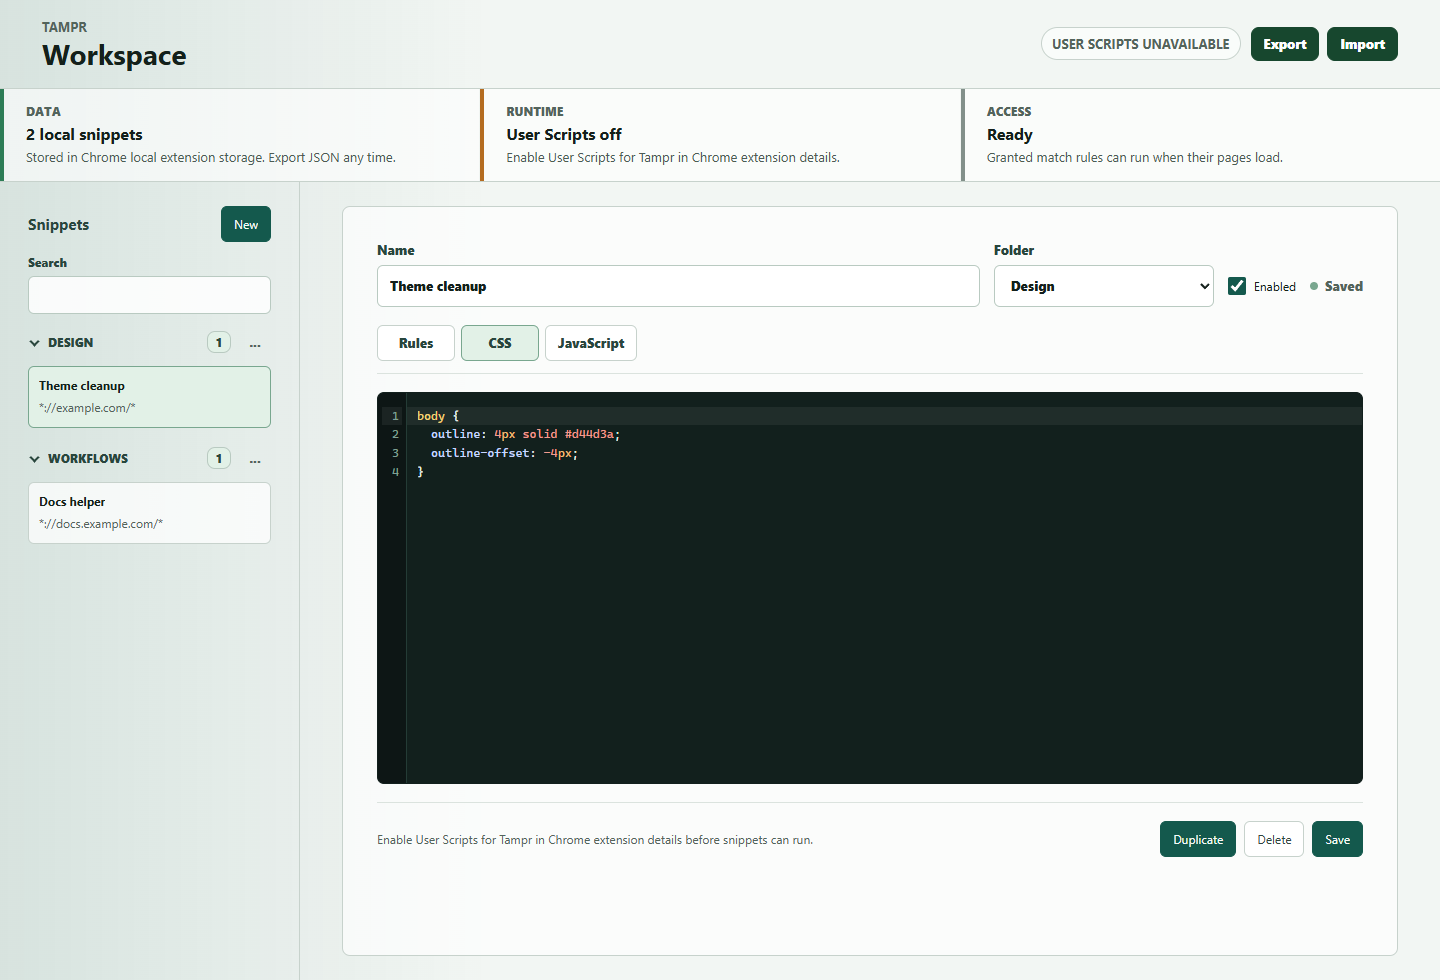
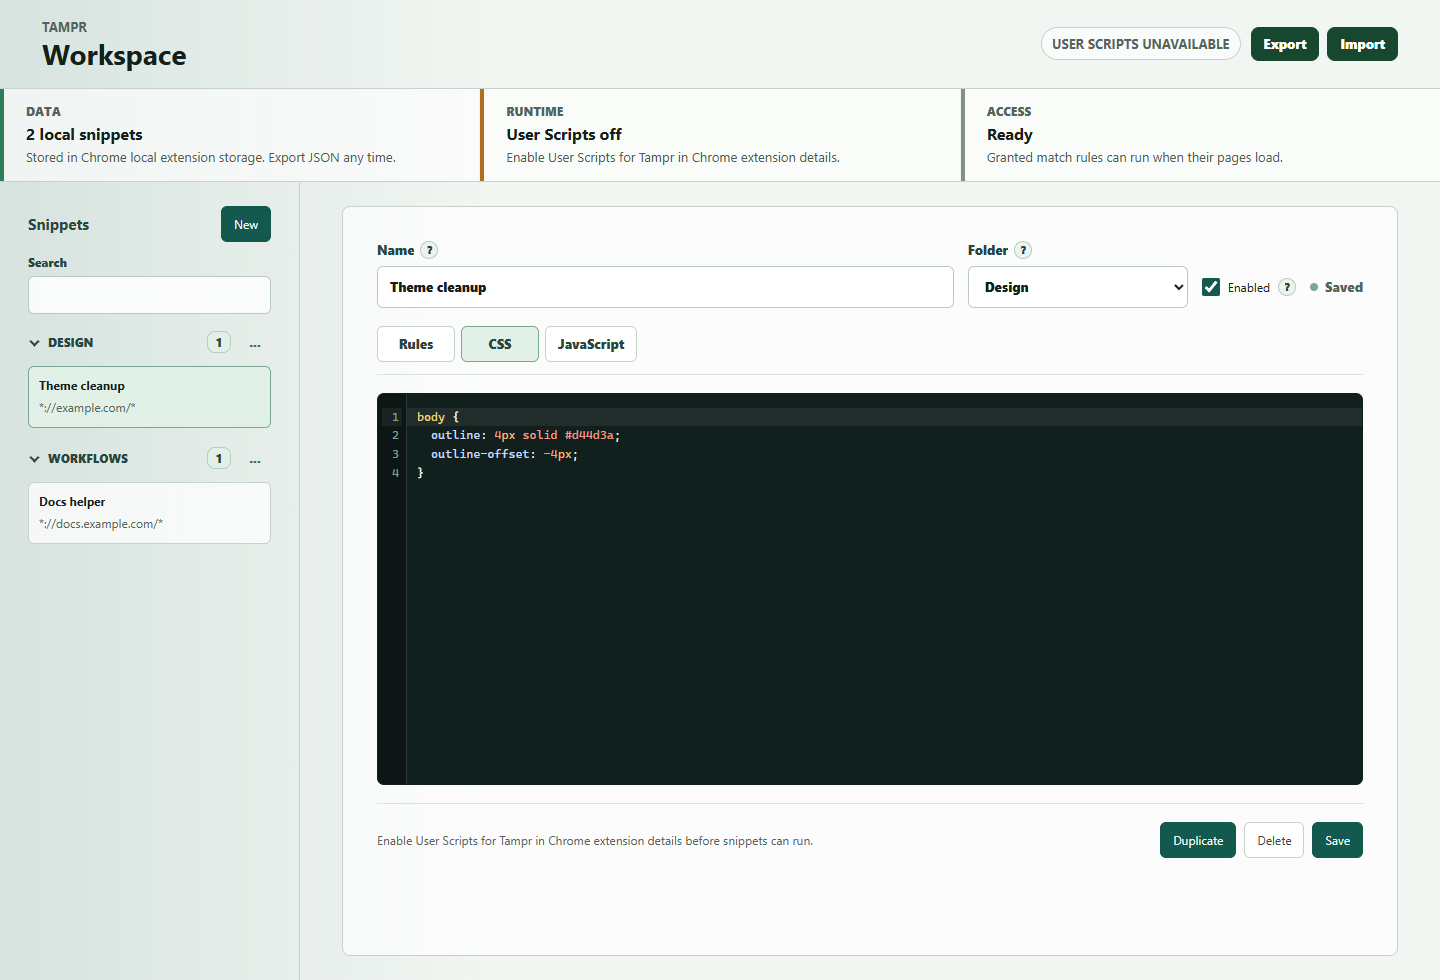
feat: add snippet field help

diff --git a/src/workspace/components/SnippetEditor/SnippetEditor.tsx b/src/workspace/components/SnippetEditor/SnippetEditor.tsx
@@ -16,6 +16,20 @@ import styles from './SnippetEditor.module.scss';
 
 const EDITOR_MODES = ['rules', 'css', 'javascript'] as const;
 const CUSTOM_FOLDER_VALUE = '__tampr_custom_folder__';
+const FIELD_HELP = {
+  enabled:
+    'Enabled snippets can run after their match rules and Chrome permissions allow them.',
+  excludeRules:
+    'Exclude rules stop this snippet on specific pages even when a match rule applies.',
+  folder:
+    'Folders are lightweight labels for keeping local snippets organized.',
+  matchRules:
+    'Match rules decide which pages can run this snippet. Use Chrome match patterns such as *://example.com/*.',
+  name: 'A short local name for finding and recognizing this snippet.',
+  run: 'Choose when JavaScript runs. Document idle is safest; document start runs earlier while the page is still loading.',
+  world:
+    'User script runs in Chrome isolated script space and gets Tampr APIs. Main runs beside page scripts and should be used only when a page integration needs it.',
+} as const;
 
 type EditorMode = (typeof EDITOR_MODES)[number];
 
@@ -93,21 +107,34 @@ export function SnippetEditor({
     <section className={styles.shell} aria-label="Snippet editor">
       <form className={styles.form} onSubmit={submit}>
         <div className={styles.identity}>
-          <label className={`${styles.field} ${styles.name}`}>
-            <span>Name</span>
+          <div className={`${styles.field} ${styles.name}`}>
+            <FieldLabel
+              help={FIELD_HELP.name}
+              helpId="snippet-name-help"
+              htmlFor="snippet-name"
+              label="Name"
+            />
             <input
+              aria-describedby="snippet-name-help"
+              id="snippet-name"
               value={editor.name}
               onChange={(event) =>
                 onUpdate({ ...editor, name: event.target.value })
               }
             />
-          </label>
+          </div>
 
           <div className={`${styles.field} ${styles.folder}`}>
-            <span>Folder</span>
+            <FieldLabel
+              help={FIELD_HELP.folder}
+              helpId="snippet-folder-help"
+              htmlFor="snippet-folder"
+              label="Folder"
+            />
             <div className={styles.folderControls}>
               <select
-                aria-label="Folder"
+                aria-describedby="snippet-folder-help"
+                id="snippet-folder"
                 value={folderSelectValue}
                 onChange={(event) => {
                   const nextFolder =
@@ -149,16 +176,25 @@ export function SnippetEditor({
             </div>
           </div>
 
-          <label className={styles.toggle}>
-            <input
-              checked={editor.enabled}
-              type="checkbox"
-              onChange={(event) =>
-                onUpdate({ ...editor, enabled: event.target.checked })
-              }
+          <div className={styles.toggle}>
+            <label htmlFor="snippet-enabled">
+              <input
+                aria-describedby="snippet-enabled-help"
+                checked={editor.enabled}
+                id="snippet-enabled"
+                type="checkbox"
+                onChange={(event) =>
+                  onUpdate({ ...editor, enabled: event.target.checked })
+                }
+              />
+              <span>Enabled</span>
+            </label>
+            <FieldHelp
+              help={FIELD_HELP.enabled}
+              helpId="snippet-enabled-help"
+              label="Enabled"
             />
-            <span>Enabled</span>
-          </label>
+          </div>
 
           <span
             className={`${styles.saveState} ${dirty ? styles.unsaved : ''}`}
@@ -186,28 +222,42 @@ export function SnippetEditor({
         {mode === 'rules' ? (
           <div className={styles.rules}>
             <div className={styles.ruleField}>
-              <label className={styles.field}>
-                <span>Match rules</span>
+              <div className={styles.field}>
+                <FieldLabel
+                  help={FIELD_HELP.matchRules}
+                  helpId="snippet-match-rules-help"
+                  htmlFor="snippet-match-rules"
+                  label="Match rules"
+                />
                 <textarea
+                  aria-describedby="snippet-match-rules-help"
+                  id="snippet-match-rules"
                   value={editor.matches}
                   onChange={(event) =>
                     onUpdate({ ...editor, matches: event.target.value })
                   }
                 />
-              </label>
+              </div>
               <RuleIssues issues={matchRuleIssues} />
             </div>
 
             <div className={styles.ruleField}>
-              <label className={styles.field}>
-                <span>Exclude rules</span>
+              <div className={styles.field}>
+                <FieldLabel
+                  help={FIELD_HELP.excludeRules}
+                  helpId="snippet-exclude-rules-help"
+                  htmlFor="snippet-exclude-rules"
+                  label="Exclude rules"
+                />
                 <textarea
+                  aria-describedby="snippet-exclude-rules-help"
+                  id="snippet-exclude-rules"
                   value={editor.excludeMatches}
                   onChange={(event) =>
                     onUpdate({ ...editor, excludeMatches: event.target.value })
                   }
                 />
-              </label>
+              </div>
               <RuleIssues issues={excludeRuleIssues} />
             </div>
 
@@ -232,9 +282,16 @@ export function SnippetEditor({
             </div>
 
             <div className={styles.settings}>
-              <label className={styles.setting}>
-                <span>Run</span>
+              <div className={styles.setting}>
+                <FieldLabel
+                  help={FIELD_HELP.run}
+                  helpId="snippet-run-help"
+                  htmlFor="snippet-run"
+                  label="Run"
+                />
                 <select
+                  aria-describedby="snippet-run-help"
+                  id="snippet-run"
                   value={editor.runAt}
                   onChange={(event) =>
                     onUpdate({
@@ -246,11 +303,18 @@ export function SnippetEditor({
                   <option value="document_idle">Document idle</option>
                   <option value="document_start">Document start</option>
                 </select>
-              </label>
+              </div>
 
-              <label className={styles.setting}>
-                <span>World</span>
+              <div className={styles.setting}>
+                <FieldLabel
+                  help={FIELD_HELP.world}
+                  helpId="snippet-world-help"
+                  htmlFor="snippet-world"
+                  label="World"
+                />
                 <select
+                  aria-describedby="snippet-world-help"
+                  id="snippet-world"
                   value={editor.world}
                   onChange={(event) =>
                     onUpdate({
@@ -262,7 +326,7 @@ export function SnippetEditor({
                   <option value="USER_SCRIPT">User script</option>
                   <option value="MAIN">Main</option>
                 </select>
-              </label>
+              </div>
             </div>
           </div>
         ) : (
@@ -318,6 +382,46 @@ export function SnippetEditor({
         </footer>
       </form>
     </section>
+  );
+}
+
+type FieldLabelProps = {
+  help: string;
+  helpId: string;
+  htmlFor: string;
+  label: string;
+};
+
+function FieldLabel({ help, helpId, htmlFor, label }: FieldLabelProps) {
+  return (
+    <div className={styles.labelRow}>
+      <label htmlFor={htmlFor}>{label}</label>
+      <FieldHelp help={help} helpId={helpId} label={label} />
+    </div>
+  );
+}
+
+type FieldHelpProps = {
+  help: string;
+  helpId: string;
+  label: string;
+};
+
+function FieldHelp({ help, helpId, label }: FieldHelpProps) {
+  return (
+    <span className={styles.help}>
+      <button
+        aria-describedby={helpId}
+        aria-label={`${label} help`}
+        className={styles.helpButton}
+        type="button"
+      >
+        ?
+      </button>
+      <span className={styles.tooltip} id={helpId} role="tooltip">
+        {help}
+      </span>
+    </span>
   );
 }
 

diff --git a/src/workspace/components/SnippetEditor/SnippetEditor.module.scss b/src/workspace/components/SnippetEditor/SnippetEditor.module.scss
@@ -101,6 +101,79 @@
   }
 }
 
+.labelRow {
+  align-items: center;
+  display: flex;
+  gap: 6px;
+  min-width: 0;
+
+  label {
+    overflow: hidden;
+    text-overflow: ellipsis;
+    white-space: nowrap;
+  }
+}
+
+.help {
+  display: inline-flex;
+  flex: 0 0 auto;
+  position: relative;
+}
+
+.helpButton {
+  align-items: center;
+  background: #edf4ef;
+  border-color: #b9cac1;
+  border-radius: 50%;
+  color: #29463d;
+  display: inline-flex;
+  font-size: 11px;
+  font-weight: 900;
+  height: 18px;
+  justify-content: center;
+  min-height: 18px;
+  padding: 0;
+  width: 18px;
+
+  &:hover,
+  &:focus-visible {
+    background: #14594d;
+    border-color: #14594d;
+    color: #f7fbf8;
+  }
+}
+
+.tooltip {
+  background: #14201b;
+  border: 1px solid #29463d;
+  border-radius: 8px;
+  bottom: calc(100% + 8px);
+  box-shadow: 0 10px 28px rgb(20 32 27 / 18%);
+  color: #f7fbf8;
+  font-size: 12px;
+  font-weight: 700;
+  left: 50%;
+  line-height: 1.45;
+  max-width: min(280px, 68vw);
+  opacity: 0;
+  padding: 9px 10px;
+  pointer-events: none;
+  position: absolute;
+  text-transform: none;
+  transform: translate(-50%, 4px);
+  transition:
+    opacity 140ms ease,
+    transform 140ms ease;
+  width: max-content;
+  z-index: 20;
+}
+
+.help:hover .tooltip,
+.help:focus-within .tooltip {
+  opacity: 1;
+  transform: translate(-50%, 0);
+}
+
 .rules {
   align-content: start;
   display: grid;
@@ -196,6 +269,12 @@
   display: flex;
   gap: 8px;
   min-height: 42px;
+
+  label {
+    align-items: center;
+    display: flex;
+    gap: 8px;
+  }
 
   input {
     accent-color: #14594d;

diff --git a/src/workspace/components/SnippetEditor/SnippetEditor.test.tsx b/src/workspace/components/SnippetEditor/SnippetEditor.test.tsx
@@ -92,6 +92,35 @@ describe('SnippetEditor', () => {
     expect(screen.queryByRole('textbox', { name: 'CSS code' })).toBeNull();
   });
 
+  it('explains runtime fields with help tooltips', () => {
+    render(
+      <SnippetEditor
+        busy={false}
+        dirty={true}
+        editor={newSnippetEditor}
+        notice="Ready."
+        workspace={undefined}
+        onDelete={() => undefined}
+        onDuplicate={() => undefined}
+        onFolderChange={() => undefined}
+        onSave={() => undefined}
+        onUpdate={() => undefined}
+      />,
+    );
+
+    fireEvent.click(screen.getByRole('button', { name: 'Rules' }));
+
+    expect(screen.getByRole('button', { name: 'Enabled help' })).toBeTruthy();
+    expect(screen.getByRole('button', { name: 'Run help' })).toBeTruthy();
+    expect(screen.getByRole('button', { name: 'World help' })).toBeTruthy();
+    expect(
+      screen.getByText(/Document idle is safest; document start runs earlier/),
+    ).toBeTruthy();
+    expect(
+      screen.getByText(/User script runs in Chrome isolated script space/),
+    ).toBeTruthy();
+  });
+
   it('duplicates drafts and confirms saved snippet deletes', () => {
     const onDelete = vi.fn();
     const onDuplicate = vi.fn();

diff --git a/CHANGELOG.md b/CHANGELOG.md
@@ -17,6 +17,7 @@ group changes under the headings below.
 - Popup current-page status with enable and disable controls.
 - Workspace with searchable snippet rail, CodeMirror editing, match-rule
   authoring, snippet CRUD, import/export, and trust status.
+- Field help tooltips for snippet editor controls.
 - Lightweight, persistent, collapsible folder grouping for workspace snippets.
 - Folder rename and delete-to-General management from the workspace rail.
 - Auto-save when moving saved snippets between folders.
